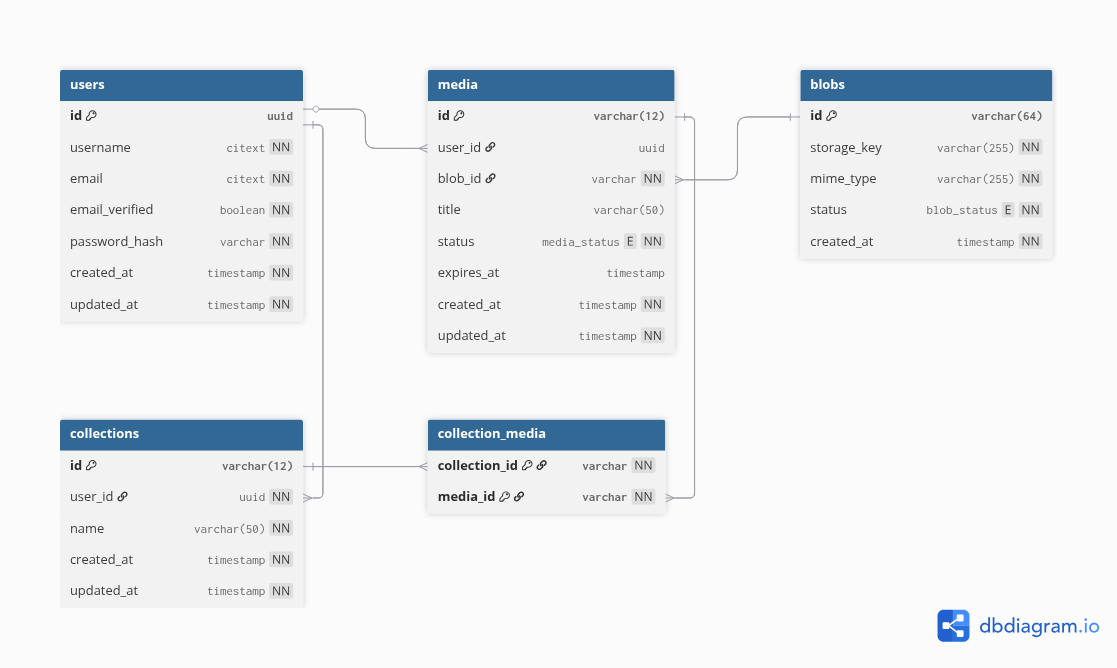
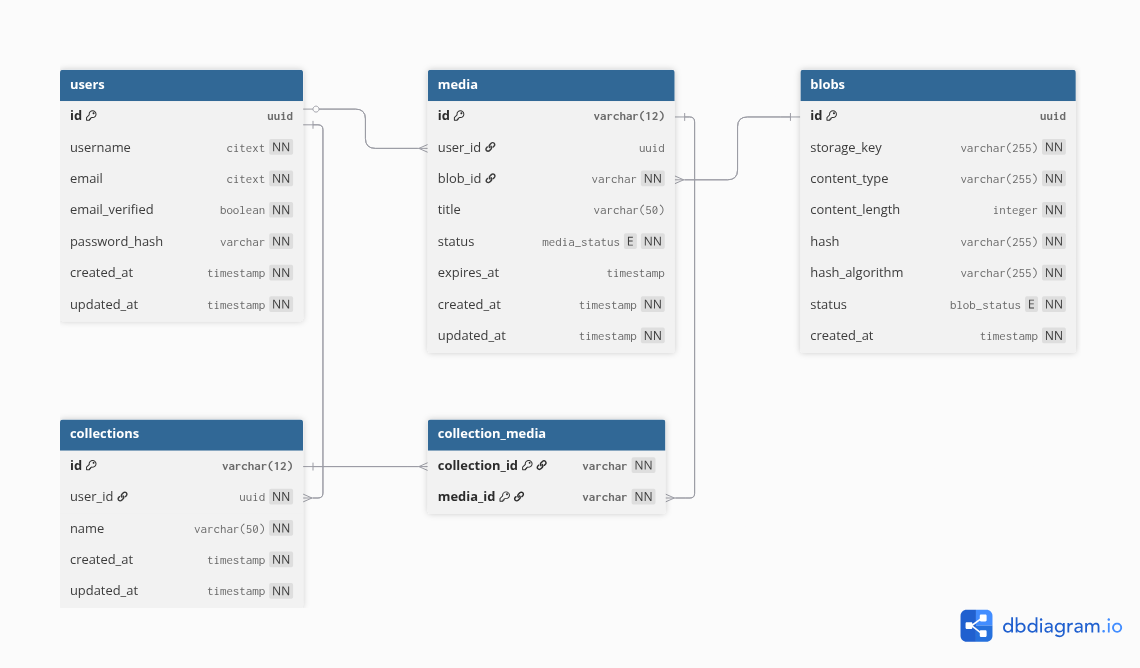
feat: update `blobs` table schema

diff --git a/migrations/002_add_blobs_and_media.ts b/migrations/002_add_blobs_and_media.ts
@@ -2,10 +2,13 @@ import type { Knex } from 'knex';
 
 export async function up(knex: Knex): Promise<void> {
   await knex.schema.createTable('blobs', (table) => {
-    table.string('id', 64).primary(); // sha256 hash
+    table.uuid('id').primary();
 
     table.string('storage_key', 255).notNullable().unique();
-    table.string('mime_type', 255).notNullable();
+    table.string('content_type', 255).notNullable();
+    table.integer('content_length').notNullable();
+    table.string('hash', 255).notNullable().unique();
+    table.string('hash_algorithm', 255).notNullable();
     table.enum('status', ['pending', 'ready'], { useNative: true, enumName: 'blob_status' }).defaultTo('pending');
 
     table.timestamp('created_at', { useTz: true }).notNullable().defaultTo(knex.fn.now());
@@ -17,7 +20,6 @@ export async function up(knex: Knex): Promise<void> {
     table.string('blob_id').notNullable();
 
     table.string('title', 50).nullable();
-    // table.string('mime_type', 255).notNullable();
     table.enum('status', ['pending', 'ready'], { useNative: true, enumName: 'media_status' }).defaultTo('pending');
 
     table.timestamp('expires_at', { useTz: true }).nullable();
